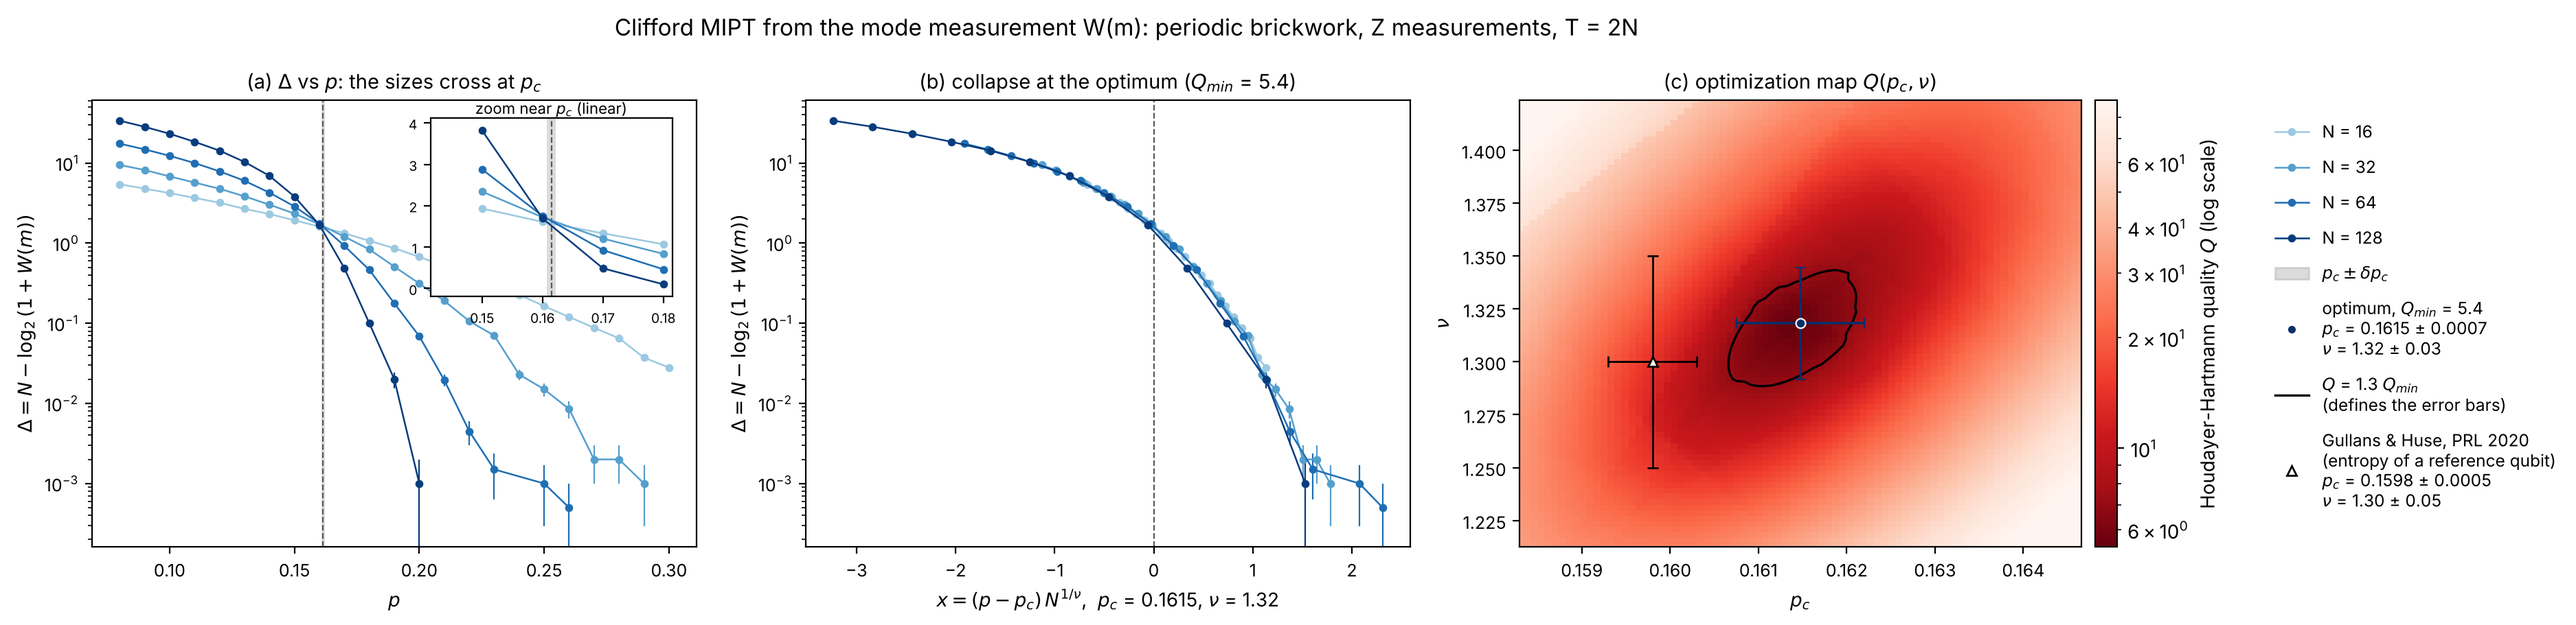
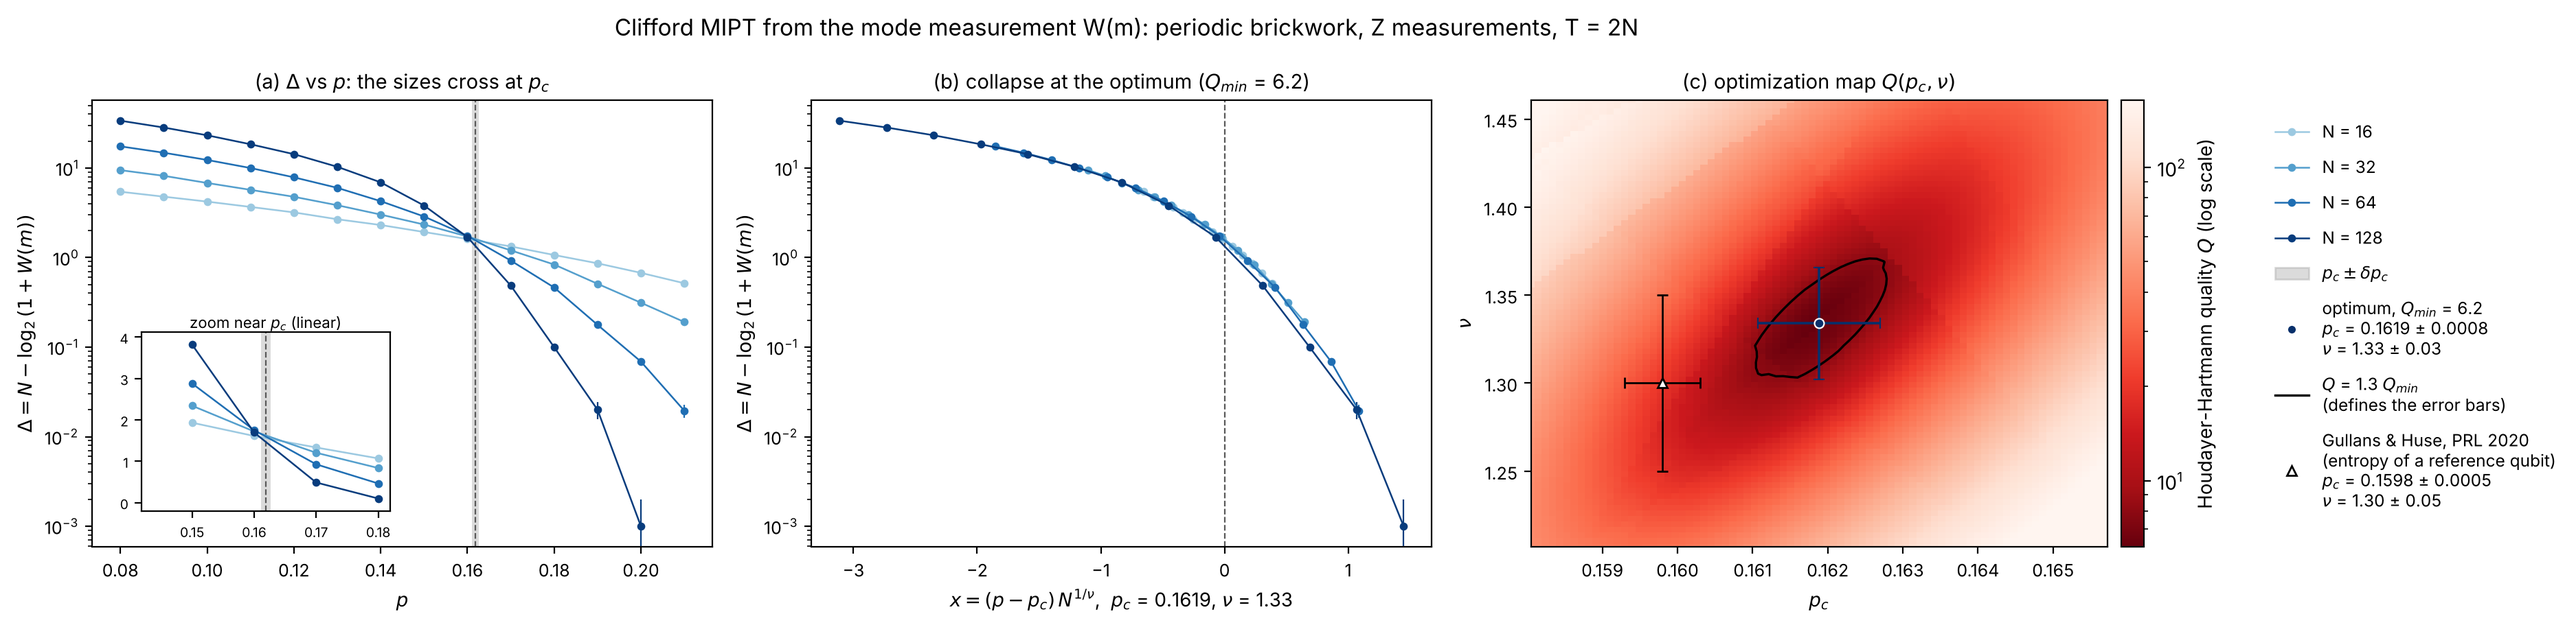
Clifford methodology figure: keep p <= 0.21 and refit
Above p = 0.21, Delta of the large sizes is tiny and noisy. The fit is
redone on p <= 0.21 (--p-max): p_c = 0.1619 +/- 0.0008, nu = 1.33 +/- 0.03,
Q_min = 6.2. The zoom of panel (a) moves to the lower left.

Refs #379

Claude-Session: https://claude.ai/code/session_0185MugwZk6ZrDkkL1g7UFMb

diff --git a/experiments/collapse_error_budget/clifford_methodology.py b/experiments/collapse_error_budget/clifford_methodology.py
@@ -4,7 +4,9 @@
 Everything comes from the mode measurement ``W(m)`` through the order
 parameter ``Delta = N - log2(1 + W(m))`` of #346 (periodic brickwork of
 random Clifford gates, ``Z`` measurements with probability ``p``,
-``T = 2N``, ``N = 16, 32, 64, 128``, 23 values of ``p`` from 0.08 to 0.30).
+``T = 2N``, ``N = 16, 32, 64, 128``, the values of ``p`` from 0.08 to
+0.21 only (``--p-max``): above, ``Delta`` of the large sizes is tiny and
+noisy and carries no information on the transition).
 One figure, three panels:
 
 (a) ``Delta`` against ``p`` for every ``N`` (shades of blue, light for small
@@ -17,9 +19,9 @@ One figure, three panels:
     Gullans & Huse value for the same circuit and the closest quantity (the
     entropy of a reference qubit).
 
-The optimum and its error bars are read from ``figures/pc_nu_plane_full.json``
-(written by ``pc_nu_plane.py``, no refit here). Only the map of panel (c) is
-recomputed, on a wider grid (a few seconds). Run from this folder:
+The optimum is refitted on these points (grid then Nelder-Mead, as in
+``pc_nu_plane.py``), and its error bars are the projected half-widths of the
+region ``Q <= 1.3 Q_min``. A few seconds. Run from this folder:
 
     uv run python clifford_methodology.py
 """
@@ -36,10 +38,11 @@ import matplotlib
 matplotlib.use("Agg")
 import matplotlib.pyplot as plt  # noqa: E402
 import numpy as np  # noqa: E402
+from error_budget import GRID, fit  # noqa: E402
 from matplotlib.colors import LogNorm  # noqa: E402
 from matplotlib.lines import Line2D  # noqa: E402
 from matplotlib.patches import Patch  # noqa: E402
-from pc_nu_plane import CLIFFORD_RUNS, FACTOR, clifford_delta  # noqa: E402
+from pc_nu_plane import CLIFFORD_RUNS, FACTOR, clifford_delta, region  # noqa: E402
 
 from QELM.evaluation.finite_size_scaling import Curve, hh_quality  # noqa: E402
 
@@ -75,7 +78,7 @@ def crossing_panel(ax: Any, curves: dict[int, Curve], pc: float, dpc: float) -> 
     """(a) ``Delta(p)`` per size, the band ``p_c ± δp_c`` and a linear zoom."""
     sizes = sorted(curves)
     cols = blues(len(sizes))
-    ins = ax.inset_axes([0.56, 0.56, 0.4, 0.4])
+    ins = ax.inset_axes([0.08, 0.08, 0.4, 0.4])
     lo, hi = pc - 0.02, pc + 0.02
     zoom = []
     for col, n in zip(cols, sizes, strict=True):
@@ -173,17 +176,25 @@ def figure(curves: dict[int, Curve], row: dict[str, Any], out: Path) -> dict[str
 def main() -> None:
     ap = argparse.ArgumentParser(description=__doc__.splitlines()[0])
     ap.add_argument("--out", type=Path, default=HERE / "figures")
+    ap.add_argument("--p-max", type=float, default=0.21,
+                    help="keep only p <= p_max (default 0.21)")  # fmt: skip
     a = ap.parse_args()
     a.out.mkdir(parents=True, exist_ok=True)
-    rows = json.loads((a.out / "pc_nu_plane_full.json").read_text())["clifford"]
-    row = next(r for r in rows if r["label"].startswith("Δ"))
-    curves = clifford_delta(CLIFFORD_RUNS)
-    assert row["sizes"] == sorted(curves) and not row["subtract"]
+    curves: dict[int, Curve] = {}
+    for n, (p, y, e) in clifford_delta(CLIFFORD_RUNS).items():
+        m = p <= a.p_max + 1e-9
+        curves[n] = (p[m], y[m], e[m])
+    best = fit(curves, None, GRID)
+    wp, wn, _ = region(curves, False, best)
+    row = {"p_c": best[0], "nu": best[1], "S_min": best[2],
+           "p_c_err_1.3": wp, "nu_err_1.3": wn}  # fmt: skip
     summary = figure(curves, row, a.out)
+    summary["p_max"] = a.p_max
+    summary["points_per_N"] = {n: len(c[0]) for n, c in curves.items()}
     (a.out / "clifford_methodology_delta.json").write_text(
         json.dumps(summary, indent=2, ensure_ascii=False) + "\n"
     )
-    print(summary["file"])
+    print(json.dumps(summary, ensure_ascii=False))
 
 
 if __name__ == "__main__":

diff --git a/experiments/collapse_error_budget/README.md b/experiments/collapse_error_budget/README.md
@@ -100,7 +100,8 @@ to them.
 
 One figure that explains the method on Clifford, from the mode measurement
 `W(m)` only: `Delta = N - log2(1 + W(m))` of #346, `T = 2N`,
-`N = 16, 32, 64, 128`, 23 values of `p` from 0.08 to 0.30. `I3` and
+`N = 16, 32, 64, 128`, the 14 values of `p` from 0.08 to 0.21 (above,
+`Delta` of the large sizes is tiny and noisy). `I3` and
 `S(N/2)` (#358) are left out on purpose: they come from the state of the
 references, not from `W(m)`.
 
@@ -112,9 +113,10 @@ references, not from `W(m)`.
 `N`): the curves cross at `p_c` (grey band `p_c ± δp_c`, linear zoom in
 the inset). **(b)** the collapse against `(p - p_c) N^(1/nu)` at the
 optimum. **(c)** the exact Houdayer-Hartmann quality `Q` over
-`(p_c, nu)` (red, log scale): the optimum `Q_min = 5.4` at
-`p_c = 0.1615 ± 0.0007`, `nu = 1.32 ± 0.03`, the contour
+`(p_c, nu)` (red, log scale): the optimum `Q_min = 6.2` at
+`p_c = 0.1619 ± 0.0008`, `nu = 1.33 ± 0.03`, the contour
 `Q = 1.3 Q_min` whose projections give these bars, and Gullans & Huse
 (PRL 2020, entropy of a reference qubit: `0.1598 ± 0.0005`, `1.30 ± 0.05`).
-The optimum and bars are read from `pc_nu_plane_full.json` (no refit);
-only the map of (c) is recomputed, in a few seconds.
+The fit is redone on `p <= 0.21` (`--p-max`); with all 23 values of `p`
+it gives `0.1615 ± 0.0007`, `1.32 ± 0.03`, `Q_min = 5.4`
+(`pc_nu_plane.py`). A few seconds.
